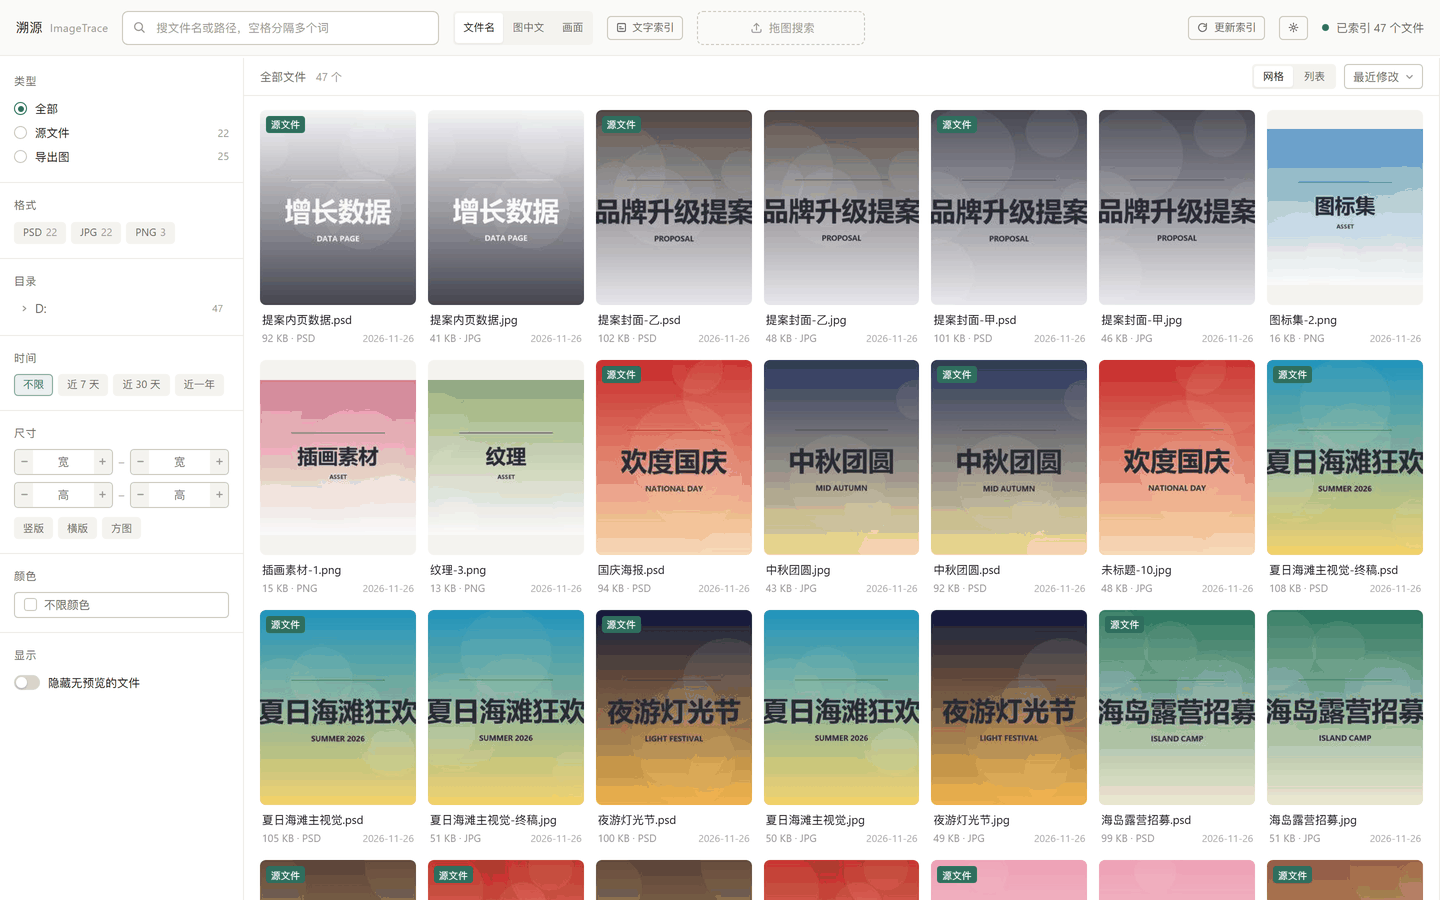
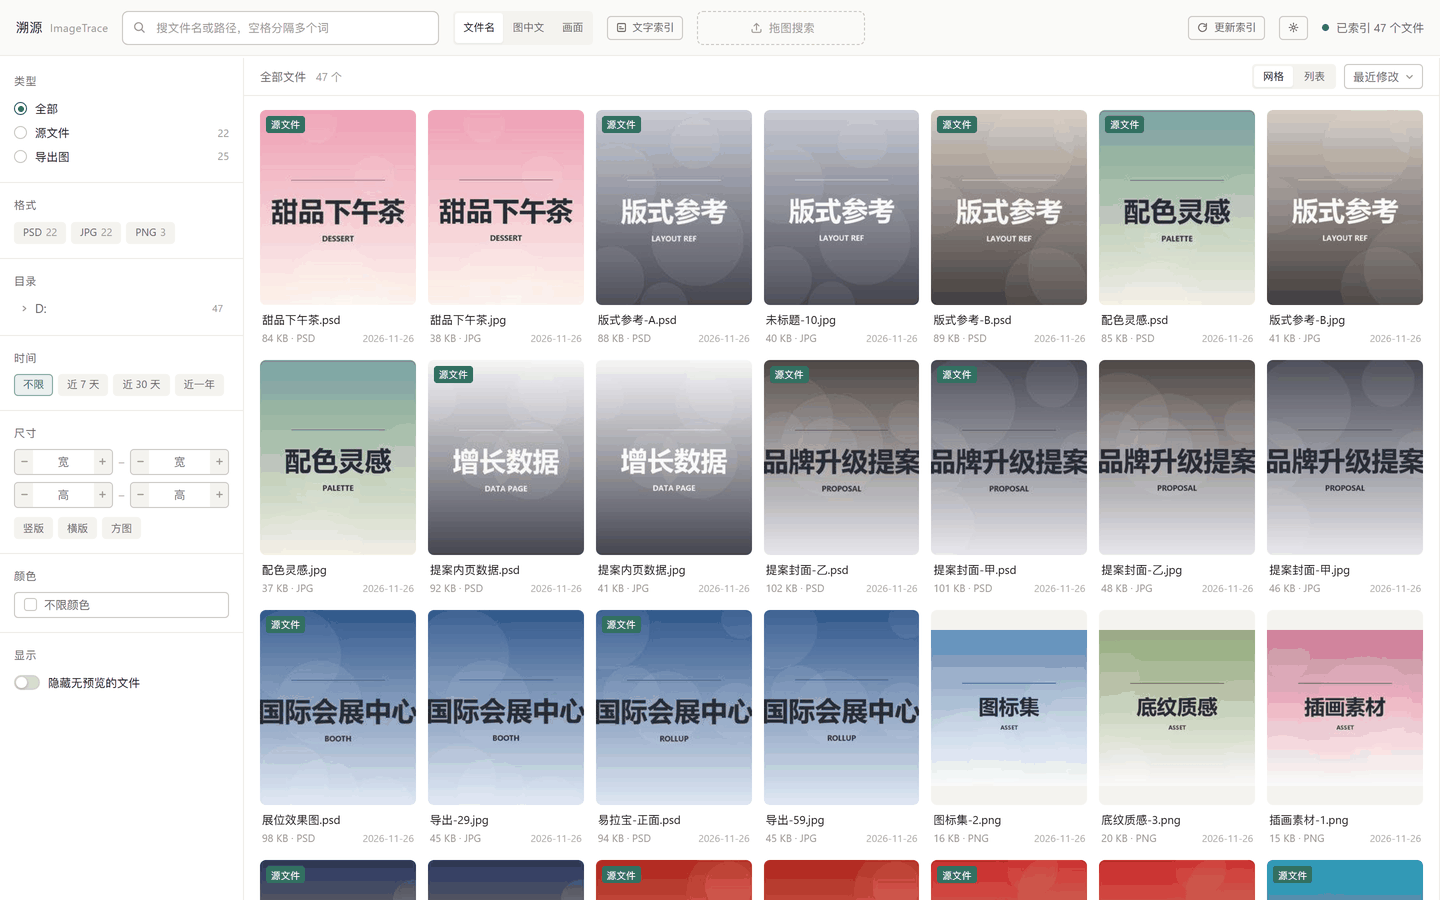
重截四张截图：路径不露 demo，假名字不撞真实文件
用户看 GitHub 页面时发现 `01-browse.png` 有问题，顺手也查出了
`02-reverse.png` 的两个真问题。

**问题 1：详情面板暴露了 `D:\_demo\files\`**
右侧详情面板会显示文件的完整路径。第一版用的假数据目录是
`D:\_demo\files\产品海报\火锅季套餐.jpg` —— 截进 README 里
「_demo」三个字等于告诉所有人这是编的，而且显得很不专业。
改成 `D:\作品集\2026案例\产品海报\火锅季套餐.jpg`。

**问题 2：假名字撞上真实文件**
比对了用户的 data/index.db：
- 「国庆海报」6 条真实记录（含 `E:\设计文件\26.9.20\国庆海报.cdr`）
- 「欢度国庆」7 条（含 `泰国欢度国庆.psd`）
- 「纹理」887 条
名字撞上了，截进 README 就等于把真实文件名露出来。
换成「节庆主视觉 / 节日快乐 / 底纹质感」，比对确认 0 重合。

**脚本改动**
- make_files.py：输出目录改 `D:\作品集\2026案例`，两个撞名条目换掉
- 三个 shot_*.py：URL 与 TARGET 路径同步
- docs/images/README.md：补两条硬要求 + 截图后 OCR 自检的方法

**验证方式**
用项目自带的 OCR 引擎扫四张图（放大 3 倍，路径字号只有 12px
不放大读不出来），33 个敏感词 + 路径样式正则，全部 0 命中。

diff --git a/tools/demo/make_files.py b/tools/demo/make_files.py
@@ -9,7 +9,12 @@
   - 单张 JPG / PNG
   - 一张带明显中文大字的「海报」用于演示图上文字搜索
 
-输出到 D:\\_demo\\files，索引库在 D:\\_demo\\data
+输出到 D:\\作品集\\2026案例，索引库在 D:\\作品集\\_data。
+
+**目录名有讲究**：详情面板会把文件的完整路径显示出来，所以路径里
+不能出现 demo / test / sample 这类字样。用「作品集」这种真实感的名字。
+同样，生成的假文件名也要先跟真实索引比对 —— 「国庆海报」「欢度国庆」
+在用户库里都有真实文件，撞上了就等于把真实文件名截进 README。
 """
 import os
 import random
@@ -20,7 +25,9 @@ from PIL import Image, ImageDraw, ImageFont
 sys.path.insert(0, os.path.dirname(os.path.abspath(__file__)))
 from psd_thumb import inject as inject_thumb   # noqa: E402
 
-OUT = r'D:\_demo\files'
+# 路径里不能出现 demo / test 这类字样 —— 详情面板会把完整路径
+# 显示出来，截进 README 里带 demo 的目录名等于告诉所有人这是假数据。
+OUT = r'D:\作品集\2026案例'
 FONT = r'C:\Windows\Fonts\msyhbd.ttc'
 
 # (目录, 主名, 副标题, 主色, 副色, 图上文字)
@@ -43,7 +50,7 @@ ITEMS = [
     ('展会物料', '易拉宝-正面', 'ROLLUP', (48, 88, 140), (235, 240, 250), '国际会展中心'),
     ('节日素材', '春节主视觉', 'SPRING FEST', (176, 36, 32), (250, 220, 120), '新春快乐'),
     ('节日素材', '中秋团圆', 'MID AUTUMN', (40, 52, 96), (250, 230, 160), '中秋团圆'),
-    ('节日素材', '国庆海报', 'NATIONAL DAY', (200, 40, 40), (255, 235, 180), '欢度国庆'),
+    ('节日素材', '节庆主视觉', 'FESTIVAL', (200, 40, 40), (255, 235, 180), '节日快乐'),
     ('客户提案', '提案封面-甲', 'PROPOSAL', (70, 70, 80), (240, 240, 245), '品牌升级提案'),
     ('客户提案', '提案封面-乙', 'PROPOSAL', (80, 70, 70), (240, 240, 245), '品牌升级提案'),
     ('客户提案', '提案内页数据', 'DATA PAGE', (245, 245, 248), (60, 60, 70), '增长数据'),
@@ -127,7 +134,7 @@ def main():
     # 几张独立的 PNG（无源文件）
     for i, (c, label) in enumerate([
             ((210, 120, 150), '插画素材'), ((90, 150, 200), '图标集'),
-            ((150, 170, 110), '纹理')]):
+            ((150, 170, 110), '底纹质感')]):
         d = os.path.join(OUT, '素材库')
         os.makedirs(d, exist_ok=True)
         im = make(600, 600, label, 'ASSET', c, (250, 250, 250), label)

diff --git a/tools/demo/shot_reverse.py b/tools/demo/shot_reverse.py
@@ -2,7 +2,7 @@
 
 需要先跑 tools/demo/make_files.py 造数据并启动服务：
 
-    python trace.py --db D:/_demo/data/index.db serve --port 8851
+    python trace.py --db D:/作品集/_data/index.db serve --port 8851
 
 路径按需改 URL / OUT 两行即可。
 """
@@ -12,7 +12,7 @@ from playwright.sync_api import sync_playwright
 
 URL = 'http://127.0.0.1:8851/'
 OUT = r'D:\figma\agent\image-trace\docs\images'
-TARGET = r'D:\_demo\files\产品海报\火锅季套餐.jpg'
+TARGET = r'D:\作品集\2026案例\产品海报\火锅季套餐.jpg'
 
 os.makedirs(OUT, exist_ok=True)
 

diff --git a/tools/demo/shot_browse.py b/tools/demo/shot_browse.py
@@ -2,7 +2,7 @@
 
 需要先跑 tools/demo/make_files.py 造数据并启动服务：
 
-    python trace.py --db D:/_demo/data/index.db serve --port 8851
+    python trace.py --db D:/作品集/_data/index.db serve --port 8851
 
 路径按需改 URL / OUT 两行即可。
 """

diff --git a/tools/demo/shot_modes.py b/tools/demo/shot_modes.py
@@ -2,7 +2,7 @@
 
 需要先跑 tools/demo/make_files.py 造数据并启动服务：
 
-    python trace.py --db D:/_demo/data/index.db serve --port 8851
+    python trace.py --db D:/作品集/_data/index.db serve --port 8851
 
 路径按需改 URL / OUT 两行即可。
 """

diff --git a/docs/images/README.md b/docs/images/README.md
@@ -5,10 +5,33 @@ README 里引用的四张界面截图。
 **这些图是用假数据生成的，不是真实工作文件。**
 生成脚本在 `tools/demo/` 下，它造了 47 个假的
 PSD / JPG / PNG（渐变底 + 中文大字，模拟设计稿），索引到独立库
-`D:/_demo/data`，然后截图。
+`D:/作品集/_data`，然后截图。
 
 不用真实索引是因为里面有真实的项目名与客户资料，
 README 是公开的，截进去等于泄露。
+
+## 两条硬要求
+
+**1. 目录名不能带 demo / test / sample。**
+`02-reverse.png` 的详情面板会把文件的完整路径显示出来。第一版用的
+是 `D:\_demo\files\...`，截图一眼就能看出是假数据 —— 而且显得不专业。
+现在用 `D:\作品集\2026案例`。
+
+**2. 假文件名必须先跟真实索引比对。**
+第一版有一个 `国庆海报` / `欢度国庆`，而用户真实库里有 7 个同名文件
+（包括 `泰国欢度国庆.psd`）。名字撞上了，就等于把真实文件名截进 README。
+现在换成 `节庆主视觉` / `节日快乐`，`纹理`（真实库 887 条）也换成了
+`底纹质感`。
+
+改假数据名字前先跑一遍：
+
+```python
+import sqlite3
+c = sqlite3.connect('data/index.db')
+for w in ['要用的名字']:
+    n = c.execute("SELECT COUNT(*) FROM files WHERE path LIKE ?", (f'%{w}%',)).fetchone()[0]
+    print(w, n, '可用' if n == 0 else '重合，换一个')
+```
 
 | 文件 | 内容 | 用于 |
 |---|---|---|
@@ -21,9 +44,9 @@ README 是公开的，截进去等于泄露。
 
 ```bash
 python tools/demo/make_files.py                 # 造 47 个假文件
-python trace.py --db D:/_demo/data/index.db index D:/_demo/files
-python trace.py --db D:/_demo/data/index.db pair
-python trace.py --db D:/_demo/data/index.db serve --port 8851
+python trace.py --db D:/作品集/_data/index.db index D:/作品集/2026案例
+python trace.py --db D:/作品集/_data/index.db pair
+python trace.py --db D:/作品集/_data/index.db serve --port 8851
 
 # 另开一个终端
 python tools/demo/shot_browse.py                # 浏览页
@@ -38,3 +61,23 @@ from PIL import Image
 im = Image.open(f).convert('RGB').quantize(colors=256)
 im.save(f, optimize=True)
 ```
+
+## 截图完必须做的一步
+
+把截好的图喂给 OCR 扫一遍，确认没有敏感词漏出来。这个项目的 OCR 引擎
+正好能直接用：
+
+```python
+import sys; sys.path.insert(0, '.')
+from PIL import Image
+from core import ocr
+
+im = Image.open('docs/images/02-reverse.png').convert('RGB')
+im = im.resize((im.width * 3, im.height * 3), Image.LANCZOS)
+txt = ' '.join(t for t, _s, _b in ocr.recognize(im))
+for w in ['客户名', '真实项目名', 'demo', '旅游']:
+    if w in txt:
+        print('❌ 漏了:', w)
+```
+
+放大 3 倍是必要的 —— 详情面板的路径字号只有 12px，不放大识别不出来。
